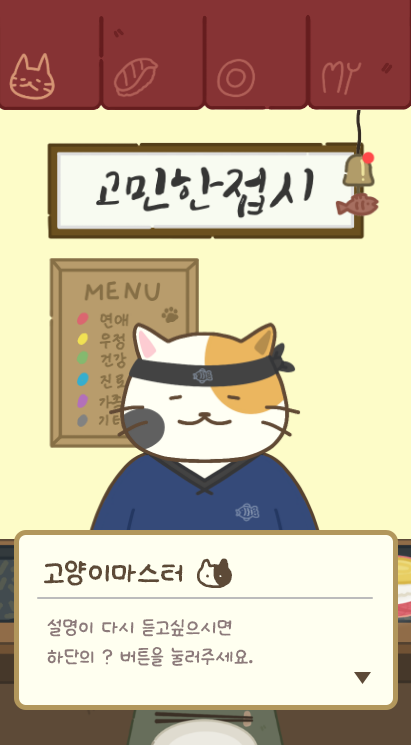
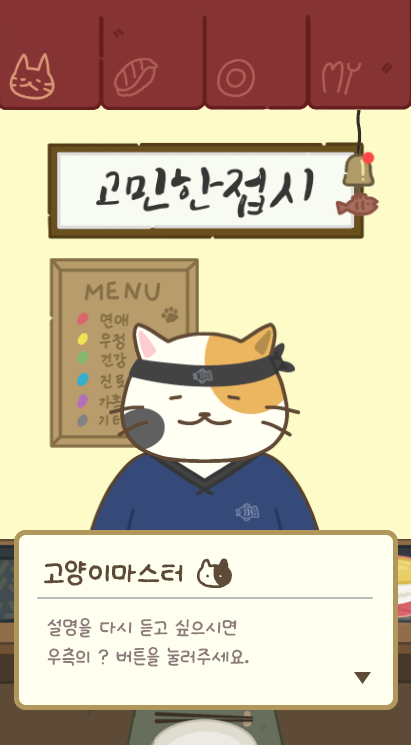
feat:튜토리얼버튼완료

Changed region(s): [[0.1168, 0.8336, 0.6131, 0.8953]]

diff --git a/frontend/gomin/src/pages/Home.jsx b/frontend/gomin/src/pages/Home.jsx
@@ -25,6 +25,7 @@ import SushiView from "./SushiView";
 import plate from "../assets/sounds/plate.mp3";
 
 import { setIsNew } from "../store/slices/memberSlice";
+import Tutorial from "../components/Tutorial";
 
 const Home = () => {
   const dispatch = useDispatch();
@@ -39,13 +40,14 @@ const Home = () => {
   const [isPostSushiOpen, setIsPostSushiOpen] = useState(false);
   const [isSushiViewOpen, setIsSushiViewOpen] = useState(false);
   const [selectedSushiData, setSelectedSushiData] = useState(null);
+  const [startTutorial, setStartTutorial] = useState(false);
 
   const audioRef = useRef(null);
 
-  // ✅ `handleSetIsNew` 함수 정의
-  const handleSetIsNew = (value) => {
-    dispatch(setIsNew(value));
-  };
+  // // ✅ `handleSetIsNew` 함수 정의
+  // const handleSetIsNew = (value) => {
+  //   dispatch(setIsNew(value));
+  // };
 
   const handleSushiClick = (sushiData) => {
     setSelectedSushiData(sushiData);
@@ -76,6 +78,14 @@ const Home = () => {
   const loading = useSelector(
     (state) => state.notification.status === "loading"
   );
+
+  const handleTutorialClose = () => {
+    setStartTutorial(false);
+  };
+
+  const restartTutorial = () => {
+    setStartTutorial(true);
+  };
 
   useLikeCountSSE();
   useNotificationSSE();
@@ -188,6 +198,20 @@ const Home = () => {
         {/* 알림 : 새로운 알림이 있을 때, 없을 떄 */}
         <NotificationBell onClick={openNotification} hasUnread={hasUnread} />
 
+        {/* 튜토리얼 버튼 */}
+        <div style={styles.buttonContainer}>
+          <button style={styles.button} onClick={restartTutorial}>
+            ?
+          </button>
+        </div>
+
+        {startTutorial && (
+          <Tutorial
+            onClose={() => setStartTutorial(false)}
+            showFullTutorial={false}
+          />
+        )}
+
         {/* 책상과 그 위의 요소들 */}
         <div style={styles.deskContainer}>
           {/* 책상 */}
@@ -251,10 +275,6 @@ const Home = () => {
             {/* <Modal isOpen={isModalOpen} onClose={closeModal} /> */}
 
             {/* <button onClick={handleSetIsNew}>튜토리얼 테스트</button> */}
-
-            <div>
-              <button>튜토리얼</button>
-            </div>
 
             {!allImagesLoaded && (
               <div>
@@ -345,6 +365,28 @@ const styles = {
     left: "25%",
     bottom: "23%",
     zIndex: 5,
+  },
+  buttonContainer: {
+    position: "absolute",
+    left: "49.5vh",
+    top: "51.1vh",
+    zIndex: 5,
+  },
+  button: {
+    padding: "0.2vh",
+    border: "0.6vh solid",
+    borderRadius: "5vh",
+    backgroundColor: "#ada782",
+    // backgroundColor: "#a6a07a",
+    color: "#dfdbaf",
+    fontSize: "2.5vh",
+    fontWeight: "bold",
+    cursor: "pointer",
+    width: "4vh",
+    height: "4vh",
+    whiteSpace: "nowrap",
+    lineHeight: "1",
+    fontFamily: "inherit",
   },
 };
 

diff --git a/frontend/gomin/src/components/Tutorial.jsx b/frontend/gomin/src/components/Tutorial.jsx
@@ -14,7 +14,7 @@ import t8 from "../assets/tuto/8.webp";
 import t9 from "../assets/tuto/9.webp";
 import t10 from "../assets/tuto/10.webp";
 
-const Tutorial = ({ onClose }) => {
+const Tutorial = ({ onClose, showFullTutorial = true }) => {
   const [showDialog, setShowDialog] = useState(false);
   const [showTutorial, setShowTutorial] = useState(false);
   const [currentSlide, setCurrentSlide] = useState(0);
@@ -31,14 +31,18 @@ const Tutorial = ({ onClose }) => {
     "준비가 되면 화면을 눌러 진행하세요!",
   ];
 
-  const tutorialSlides = [t0, t1, t2, t3, t4, t5, t6, t7, t8, t9];
+  const tutorialSlides = [t0, t1, t2, t3, t4, t5, t6, t7, t8, t10, t9];
 
   useEffect(() => {
-    const timer = setTimeout(() => {
-      setShowDialog(true);
-    }, 1500);
-    return () => clearTimeout(timer);
-  }, []);
+    if (showFullTutorial) {
+      const timer = setTimeout(() => {
+        setShowDialog(true);
+      }, 1500);
+      return () => clearTimeout(timer);
+    } else {
+      setShowTutorial(true);
+    }
+  }, [showFullTutorial]);
 
   const handleDialogComplete = () => {
     setShowDialog(false);
@@ -57,6 +61,21 @@ const Tutorial = ({ onClose }) => {
 
   return (
     <>
+      {(showDialog || showTutorial) && (
+        <div
+          style={{
+            position: "fixed",
+            top: 0,
+            left: 0,
+            right: 0,
+            bottom: 0,
+            zIndex: 8, // tutorialModal의 zIndex보다 낮게
+            backgroundColor: "transparent",
+          }}
+          onClick={(e) => e.stopPropagation()}
+        />
+      )}
+
       {showDialog && (
         <div
           style={{
@@ -119,7 +138,7 @@ const styles = {
   tutorialContent: {
     // backgroundColor: "white",
     borderRadius: "12px",
-    width: "45vh", // 300vh는 너무 큰 값입니다
+    width: "45vh",
     display: "flex",
     flexDirection: "column",
     alignItems: "center",

diff --git a/frontend/gomin/src/components/NavBar.jsx b/frontend/gomin/src/components/NavBar.jsx
@@ -65,7 +65,12 @@ const Navbar = () => {
 
   return (
     <nav style={{ ...styles.navbar, backgroundImage: `url(${bgImage})` }}>
-      <div style={styles.contentWrapper}>
+      <div
+        style={{
+          ...styles.contentWrapper,
+          pointerEvents: isTutorialOpen ? "none" : "auto",
+        }}
+      >
         {/* Home 메뉴 */}
         <div
           style={styles.navItem}
@@ -89,7 +94,9 @@ const Navbar = () => {
       </div>
 
       {/* 튜토리얼 실행 */}
-      {isTutorialOpen && <Tutorial onClose={handleTutorialClose} />}
+      {isTutorialOpen && (
+        <Tutorial onClose={handleTutorialClose} showFullTutorial={true} />
+      )}
 
       {/* 닉네임 설정 모달 */}
       {isModalOpen && <Modal isOpen={isModalOpen} onClose={closeModal} />}
